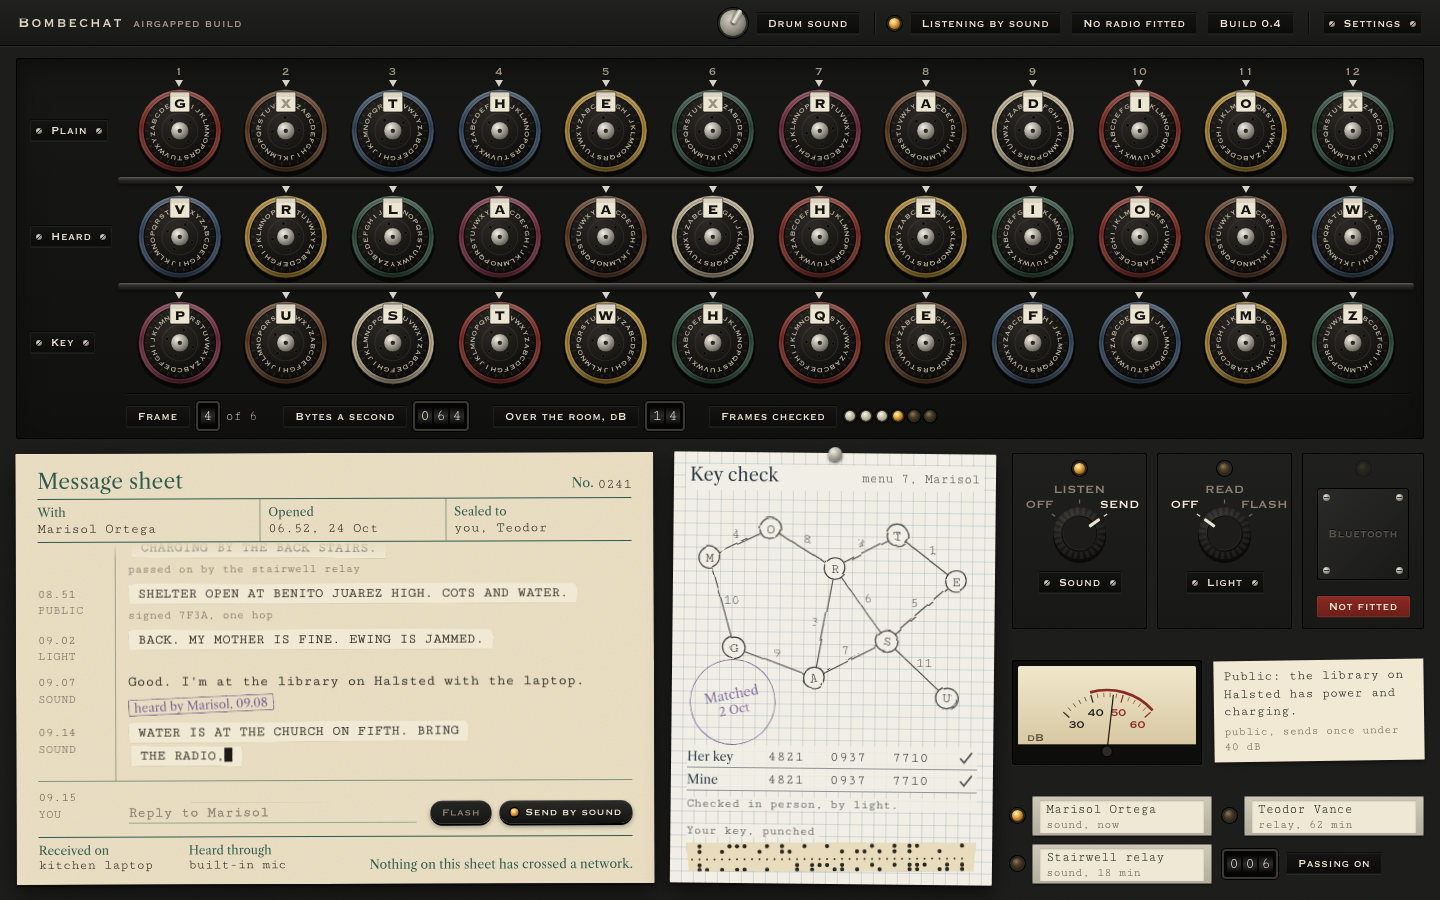
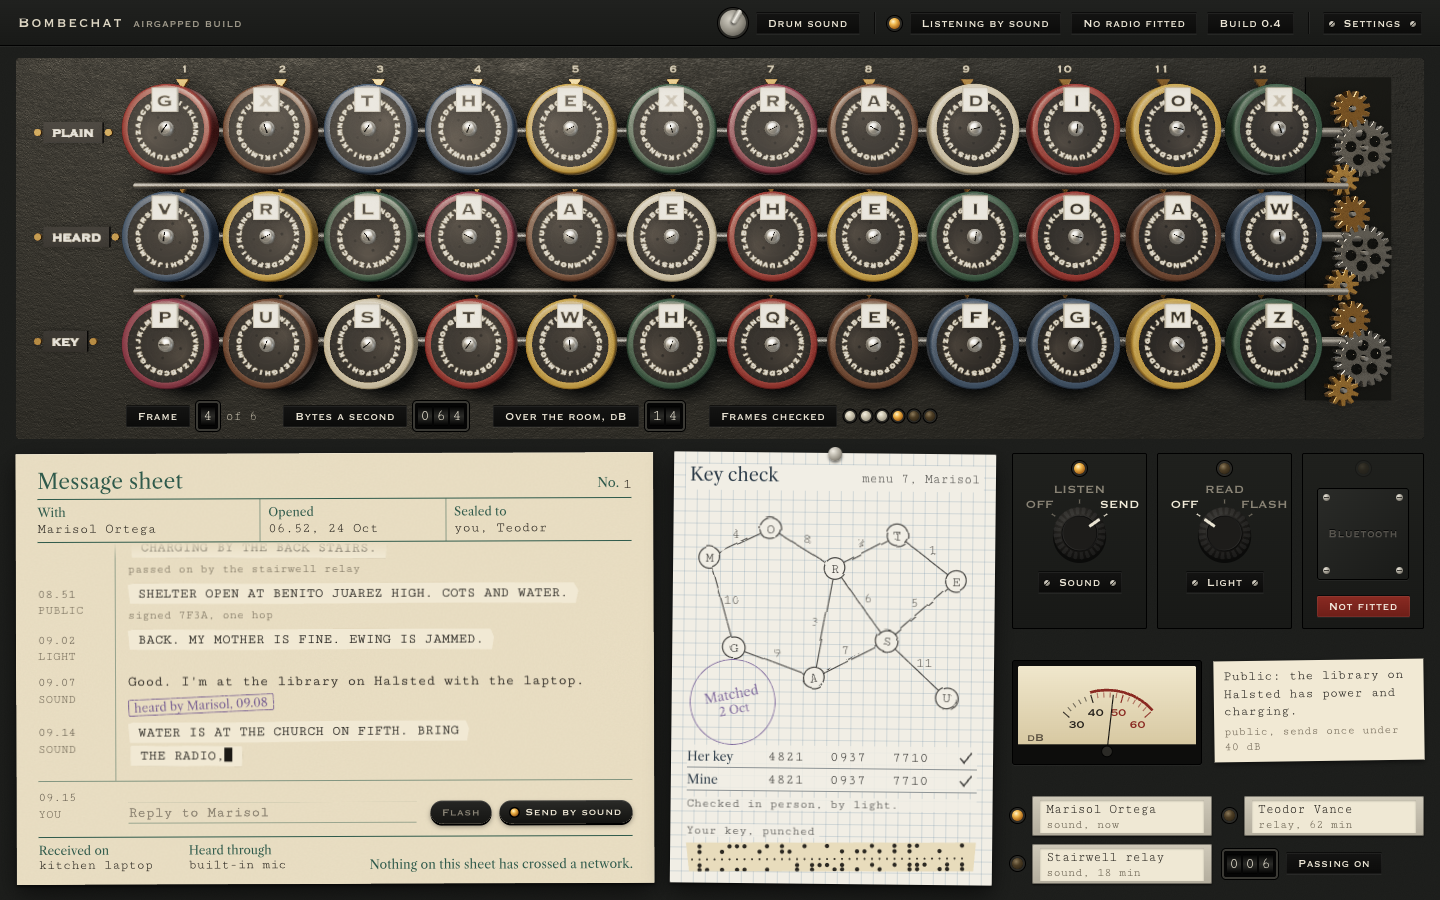
Front: photoreal 3D drum bank with gear trains, Machine No. 1
The drum bank is now a three.js scene built on the shared machine kit:
enamel-rimmed drums on steel shafts, brass index pointers, a 12:20:10
gear train per row that turns with its drums. Same timing, sound and
reduced-motion behaviour as before; SVG drums remain the fallback.

Changed region(s): [[0.0, 0.0622, 1.0, 0.4978], [0.8438, 0.4667, 0.875, 0.4978], [0.4062, 0.5289, 0.4375, 0.56]]

diff --git a/mockups/bombechat.html b/mockups/bombechat.html
@@ -72,8 +72,8 @@ body.turning #back{visibility:visible;transform:rotateY(0);transition:transform 
 .sndlab{cursor:pointer}
 
 /* drum bank */
-.bank{--dr:clamp(66px,min((100vw - 160px) / 12 - 8px,(100vh - 616px) / 3.24),128px);position:relative;z-index:1;margin:12px 16px 0;border-radius:3px;background:linear-gradient(#171816,#111210);box-shadow:inset 0 0 0 1px #000,inset 0 1px 0 rgba(255,255,255,.04),inset 0 10px 30px rgba(0,0,0,.4);padding:8px 18px 0 14px}
-.grid{display:grid;grid-template-columns:96px repeat(12,minmax(0,1fr));align-items:center;min-height:calc(var(--dr) * 3.24 + 37px)}
+.bank{--dr:clamp(66px,min((100vw - 248px) / 12 - 8px,(100vh - 616px) / 3.24),128px);position:relative;z-index:1;margin:12px 16px 0;border-radius:3px;background:linear-gradient(#171816,#111210);box-shadow:inset 0 0 0 1px #000,inset 0 1px 0 rgba(255,255,255,.04),inset 0 10px 30px rgba(0,0,0,.4);padding:8px 18px 0 14px}
+.grid{display:grid;grid-template-columns:96px repeat(12,minmax(0,1fr)) 88px;align-items:center;min-height:calc(var(--dr) * 3.24 + 37px)}
 .colno{font-family:var(--engr);font-size:12px;color:#9a9483;letter-spacing:.06em;text-align:center;padding-bottom:1px}
 .rowlab{align-self:center;padding-top:6px}
 .bar{grid-column:2/-1;height:6px;margin:2px -8px;border-radius:3px;background:linear-gradient(#5f5d57,#2b2a27 45%,#1a1a18);box-shadow:0 1px 0 rgba(255,255,255,.05),0 2px 4px rgba(0,0,0,.6)}
@@ -82,6 +82,12 @@ body.turning #back{visibility:visible;transform:rotateY(0);transition:transform 
 .drum .idx{position:absolute;left:50%;top:0;width:0;height:0;border-left:4.5px solid transparent;border-right:4.5px solid transparent;border-top:7px solid #d8d3c6;transform:translateX(-50%);filter:drop-shadow(0 1px 0 #000)}
 .rotor{transform-box:view-box;transform-origin:0 0;transition:transform .95s cubic-bezier(.2,.85,.25,1.04)}
 .wl{transition:opacity .18s}
+.bank3d{position:absolute;inset:0;border-radius:3px;overflow:hidden;z-index:0}
+.bank3d canvas{display:block;width:100%;height:100%}
+.bank.gl{background:#151614}
+.bank.gl .grid{position:relative;z-index:1;opacity:0}
+.bank.gl .bankfoot{position:relative;z-index:2;border-top-color:transparent;box-shadow:none}
+.srmirror{position:absolute;width:1px;height:1px;overflow:hidden;clip:rect(0 0 0 0);white-space:nowrap}
 .bankfoot{display:flex;flex-wrap:wrap;align-items:center;gap:10px 26px;margin:6px -4px 0 96px;padding:9px 0 10px;border-top:1px solid rgba(0,0,0,.6);box-shadow:inset 0 1px 0 rgba(255,255,255,.035)}
 .rd{display:flex;align-items:center;gap:8px}
 .odo{display:flex;gap:2px;padding:3px;background:#050505;border-radius:2px;box-shadow:0 0 0 2px #3a3934,0 0 0 3px #000}
@@ -234,7 +240,7 @@ body.turning #back{visibility:visible;transform:rotateY(0);transition:transform 
 @media (max-width:1239px){
   .deck{grid-template-columns:minmax(0,1fr) 384px;grid-template-areas:"sheet panel" "sheet menu"}
   .menu{min-height:540px}
-  .bank{--dr:clamp(66px,(100vw - 160px) / 12 - 8px,112px)}
+  .bank{--dr:clamp(66px,(100vw - 248px) / 12 - 8px,112px)}
 }
 @media (prefers-reduced-motion:reduce){
   .rotor,.knob .cap,.slip,.app{transition:none!important}
@@ -242,6 +248,12 @@ body.turning #back{visibility:visible;transform:rotateY(0);transition:transform 
   .cur,.state.live::after{animation:none}
 }
 </style>
+<script type="importmap">
+{ "imports": {
+  "three": "https://cdn.jsdelivr.net/npm/three@0.170.0/build/three.module.js",
+  "three/addons/": "https://cdn.jsdelivr.net/npm/three@0.170.0/examples/jsm/"
+} }
+</script>
 </head>
 <body>
 <div id="back" aria-hidden="true"><span class="pl screw">Rear panel</span></div>
@@ -262,6 +274,7 @@ body.turning #back{visibility:visible;transform:rotateY(0);transition:transform 
 
   <section class="bank" id="bank" aria-label="Drum bank: the current frame of the message, as plain text, as heard, and the key">
     <div class="grid" id="drums"></div>
+    <div class="srmirror" id="mirror"><p aria-live="polite" id="mirror-plain"></p><p id="mirror-heard"></p><p id="mirror-key"></p></div>
     <div class="bankfoot">
       <span class="rd" title="Messages arrive in frames of twelve letters"><span class="pl">Frame</span><span class="odo"><i id="fno">4</i></span><span class="of">of <span id="fnt">6</span></span></span>
       <span class="rd"><span class="pl">Bytes a second</span><span class="odo"><i>0</i><i>6</i><i>4</i></span></span>
@@ -272,7 +285,7 @@ body.turning #back{visibility:visible;transform:rotateY(0);transition:transform 
 
   <main class="deck">
     <article class="sheet" aria-label="Message sheet with Marisol Ortega">
-      <div class="sh-head"><h1>Message sheet</h1><span class="no">No.<b>0241</b></span></div>
+      <div class="sh-head"><h1>Message sheet</h1><span class="no">No.<b>1</b></span></div>
       <div class="fields">
         <div>With<b>Marisol Ortega</b></div>
         <div>Opened<b>06.52, 24 Oct</b></div>
@@ -374,16 +387,17 @@ function drum(rim){
   return s;
 }
 const G=document.getElementById('drums');const cells=[];
-G.insertAdjacentHTML('beforeend','<span></span>'+[...Array(12)].map((_,i)=>`<span class="colno">${i+1}</span>`).join(''));
+G.insertAdjacentHTML('beforeend','<span></span>'+[...Array(12)].map((_,i)=>`<span class="colno">${i+1}</span>`).join('')+'<span></span>');
 ['Plain','Heard','Key'].forEach((lab,r)=>{
   G.insertAdjacentHTML('beforeend',`<div class="rowlab"><span class="pl screw" title="${['What Marisol wrote','What the microphone caught','The key you and Marisol share'][r]}">${lab}</span></div>`);
   for(let c=0;c<12;c++){const d=document.createElement('div');d.className='drum';d.innerHTML='<span class="idx"></span>';const s=drum(RIMS[(c*5+r*3)%12]);d.appendChild(s);G.appendChild(d);
-    cells.push({rot:[...s.querySelectorAll('.rotor')],wl:s.querySelector('.wl'),angle:0,t:null,pitch:0.86+((c*7+r*3)%9)*0.035})}
+    cells.push({rot:[...s.querySelectorAll('.rotor')],wl:s.querySelector('.wl'),el:d,angle:0,from:0,t0:0,snap:true,t:null,pitch:0.86+((c*7+r*3)%9)*0.035})}
+  G.insertAdjacentHTML('beforeend','<span class="gearcell" aria-hidden="true"></span>');
   if(r<2)G.insertAdjacentHTML('beforeend','<div class="bar"></div>');
 });
 
 
-function setLetter(cell,ch,turns){const i=A.indexOf(ch);let base=cell.angle-(cell.angle%360);const a=base-(i*360/26)-360*(turns||0);const prev=cell.angle;cell.angle=a;
+function setLetter(cell,ch,turns){const i=A.indexOf(ch);let base=cell.angle-(cell.angle%360);const a=base-(i*360/26)-360*(turns||0);const prev=cell.angle;cell.angle=a;cell.from=prev;cell.t0=performance.now();cell.snap=!turns||RM.matches;
   clearInterval(cell.t);
   if(turns&&RM.matches){ // reduced motion: no spin, no flicker, just a short fade to the new letter
     cell.rot.forEach(g=>g.style.transform=`rotate(${a}deg)`);cell.wl.style.opacity=0;setTimeout(()=>{cell.wl.textContent=ch;cell.wl.style.opacity=1},180);Drum.spin(1,cell.pitch);return}
@@ -603,6 +617,154 @@ if(Q.has('audiotest'))(async()=>{
 // arriving back from the settings page: finish the turn
 try{if(sessionStorage.getItem('bombechat-turn')==='back-to-front'&&!matchMedia('(prefers-reduced-motion: reduce)').matches){sessionStorage.removeItem('bombechat-turn');
   document.body.animate([{transform:'perspective(1600px) rotateY(-80deg)',opacity:0},{transform:'perspective(1600px) rotateY(0deg)',opacity:1}],{duration:520,easing:'cubic-bezier(.2,.8,.3,1)'})}}catch(e){}
+</script>
+<script type="module">
+/* The drum bank in 3D. Same machine as the back panel: built from machine-kit.js.
+   The SVG drums above stay as the model and the fallback: setLetter() records each
+   turn (from, to, start time) and the window letters, and this scene draws them. */
+import { createMachine } from './machine-kit.js';
+const bank=document.getElementById('bank');
+const mirror={plain:document.getElementById('mirror-plain'),heard:document.getElementById('mirror-heard'),key:document.getElementById('mirror-key')};
+const rowText=r=>cells.slice(r*12,r*12+12).map(c=>c.wl.textContent).join('');
+window.__bank={rows:()=>({plain:rowText(0),heard:rowText(1),key:rowText(2)}),ready:false,gl:false};
+function syncMirror(){const r=window.__bank.rows();if(mirror.plain.textContent!==r.plain)mirror.plain.textContent=r.plain.replace(/X/g,' ');mirror.heard.textContent=r.heard;mirror.key.textContent=r.key}
+syncMirror();
+try{await build()}catch(e){console.warn('drum bank stays flat:',e.message);window.__bank.ready=true}
+
+async function build(){
+  const host=document.createElement('div');host.className='bank3d';host.setAttribute('aria-hidden','true');bank.prepend(host);
+  const K=createMachine(host,{still:STILL,background:'#151614'});
+  const {THREE,renderer,scene,camera,M,tex,key,rim}=K;
+  bank.classList.add('gl');window.__bank.gl=true;
+  camera.fov=19;
+  key.position.set(-6,9,22);key.intensity=2.7;
+  Object.assign(key.shadow.camera,{left:-14,right:14,top:7,bottom:-7,near:1,far:60});key.shadow.camera.updateProjectionMatrix();
+  rim.intensity=.45;
+
+  /* ---- shared parts ---- */
+  const R=.46;// drum radius in world units; one unit = drum width / 0.92
+  const ringTex=K.canvasTex(1024,1024,(k,w)=>{const c=w/2;
+    const g=k.createRadialGradient(c*.8,c*.6,c*.1,c,c,c);g.addColorStop(0,'#2e2a26');g.addColorStop(.65,'#161412');g.addColorStop(1,'#0a0908');k.fillStyle=g;k.fillRect(0,0,w,w);
+    k.translate(c,c);k.fillStyle='#d8d0ba';k.font='600 104px Copperplate, serif';k.textAlign='center';k.textBaseline='middle';
+    for(let i=0;i<26;i++){k.save();k.rotate(i*2*Math.PI/26);k.fillText('ABCDEFGHIJKLMNOPQRSTUVWXYZ'[i],0,-c*.74);k.restore()}
+    k.strokeStyle='rgba(220,214,200,.28)';k.lineWidth=3;for(let i=0;i<26;i++){k.save();k.rotate((i+.5)*2*Math.PI/26);k.beginPath();k.moveTo(0,-c*.97);k.lineTo(0,-c*.88);k.stroke();k.restore()}
+    k.strokeStyle='rgba(220,214,200,.1)';k.lineWidth=2;k.beginPath();k.arc(0,0,c*.5,0,7);k.stroke();
+    for(let i=0;i<4;i++){k.save();k.rotate(Math.PI/4+i*Math.PI/2);k.fillStyle='#070605';k.beginPath();k.arc(0,-c*.37,c*.045,0,7);k.fill();k.strokeStyle='rgba(220,214,200,.2)';k.stroke();k.restore()}});
+  ringTex.wrapS=ringTex.wrapT=THREE.ClampToEdgeWrapping;ringTex.colorSpace=THREE.SRGBColorSpace;ringTex.anisotropy=16;
+  const faceMat=new THREE.MeshStandardMaterial({map:ringTex,roughness:.55,metalness:.05});
+  // rim: a turned profile with a bevel on both edges
+  const rimGeo=(()=>{const p=[[.395,0],[.445,0],[.462,.012],[.47,.04],[.47,.17],[.462,.2],[.445,.212],[.395,.212]].map(([r,y])=>new THREE.Vector2(r,y));const g=new THREE.LatheGeometry(p,96);g.rotateX(Math.PI/2);return g})();
+  const faceGeo=new THREE.CircleGeometry(.402,96);
+  const hubGeo=(()=>{const p=[[0,.0],[.075,0],[.08,.01],[.074,.034],[.05,.052],[0,.058]].map(([r,y])=>new THREE.Vector2(r,y));const g=new THREE.LatheGeometry(p,48);g.rotateX(Math.PI/2);return g})();
+  const slotGeo=new THREE.BoxGeometry(.1,.012,.02);
+  const shaftGeo=new THREE.CylinderGeometry(.03,.03,.2,16);shaftGeo.rotateX(Math.PI/2);
+  const rimMats={};const rimMat=c=>rimMats[c]||(rimMats[c]=new THREE.MeshPhysicalMaterial({color:new THREE.Color(c).multiplyScalar(.82),roughness:.46,metalness:.05,clearcoat:.45,clearcoatRoughness:.4,bumpMap:tex.wrinkle,bumpScale:.15}));
+  const tabMatBase={roughness:.45,metalness:0};
+  const pointerGeo=(()=>{const s=new THREE.Shape();s.moveTo(-.045,0);s.lineTo(.045,0);s.lineTo(0,-.07);s.closePath();return new THREE.ExtrudeGeometry(s,{depth:.02,bevelEnabled:true,bevelThickness:.006,bevelSize:.006,bevelSegments:2})})();
+  const railMat=new THREE.MeshStandardMaterial({color:'#8e8b84',roughness:.3,metalness:1});
+
+  /* ---- panel ---- */
+  const panel=new THREE.Mesh(new THREE.BoxGeometry(1,1,.3),M.panel);panel.position.z=-.36;panel.receiveShadow=true;scene.add(panel);
+
+  /* ---- drums ---- */
+  const drums=cells.map((cell,i)=>{const r=Math.floor(i/12),c=i%12;
+    const g=new THREE.Group();scene.add(g);
+    const rimM=new THREE.Mesh(rimGeo,rimMat(RIMS[(c*5+r*3)%12]));rimM.castShadow=true;rimM.receiveShadow=true;
+    const rot=new THREE.Group();
+    const face=new THREE.Mesh(faceGeo,faceMat);face.position.z=.19;face.receiveShadow=true;
+    const hub=new THREE.Mesh(hubGeo,M.steel);hub.position.z=.192;hub.castShadow=true;
+    const slot=new THREE.Mesh(slotGeo,M.hole);slot.position.z=.247;slot.rotation.z=-.5;
+    rot.add(rimM,face,hub,slot);g.add(rot);
+    const shaft=new THREE.Mesh(shaftGeo,M.steel);shaft.position.z=-.08;g.add(shaft);
+    // reading window: cream enamel tab, fixed, with the letter
+    const cv=document.createElement('canvas');cv.width=cv.height=128;const wt=new THREE.CanvasTexture(cv);wt.colorSpace=THREE.SRGBColorSpace;wt.anisotropy=8;
+    const tab=new THREE.Mesh(new THREE.BoxGeometry(.26,.25,.03),[new THREE.MeshStandardMaterial({color:'#e9e1cb',...tabMatBase}),new THREE.MeshStandardMaterial({color:'#e9e1cb',...tabMatBase}),new THREE.MeshStandardMaterial({color:'#e9e1cb',...tabMatBase}),new THREE.MeshStandardMaterial({color:'#e9e1cb',...tabMatBase}),new THREE.MeshStandardMaterial({map:wt,...tabMatBase}),new THREE.MeshStandardMaterial({color:'#e9e1cb'})]);
+    tab.position.set(0,R*.645,.225);tab.castShadow=true;g.add(tab);
+    const ptr=new THREE.Mesh(pointerGeo,M.brass);ptr.position.set(0,R+.1,-.18);ptr.scale.setScalar(1.35);ptr.castShadow=true;g.add(ptr);
+    return {cell,g,rot,cv,wt,last:'',r,c}});
+  function paintWindow(d){const wl=d.cell.wl;const ch=wl.textContent,fill=wl.getAttribute('fill')||'#15130f',op=+(wl.getAttribute('opacity')||1)*(+wl.style.opacity===0&&wl.style.opacity!==''?0:1);
+    const sig=ch+fill+op;if(sig===d.last)return false;d.last=sig;
+    const k=d.cv.getContext('2d');k.fillStyle='#ece4cd';k.fillRect(0,0,128,128);const sh=k.createLinearGradient(0,0,0,128);sh.addColorStop(0,'rgba(0,0,0,.09)');sh.addColorStop(.25,'rgba(0,0,0,0)');k.fillStyle=sh;k.fillRect(0,0,128,128);
+    k.globalAlpha=op;k.fillStyle=fill;k.font='700 112px Copperplate, serif';k.textAlign='center';k.textBaseline='middle';k.fillText(ch,64,73);k.globalAlpha=1;
+    k.strokeStyle='rgba(0,0,0,.35)';k.lineWidth=4;k.strokeRect(2,2,124,124);d.wt.needsUpdate=true;return true}
+
+  /* ---- rails, plates, numbers, gears ---- */
+  const rails=[];for(let i=0;i<5;i++){const m=new THREE.Mesh(new THREE.CylinderGeometry(i<3?.05:.035,i<3?.05:.035,1,24),railMat);m.rotation.z=Math.PI/2;m.castShadow=true;m.receiveShadow=true;scene.add(m);rails.push(m)}
+  const plates=['Plain','Heard','Key'].map(t=>K.plate(t.toUpperCase(),0,0,{h:.2,size:56}));
+  const screwGeo=new THREE.CylinderGeometry(.035,.035,.025,20);screwGeo.rotateX(Math.PI/2);const plateScrews=plates.map(()=>[0,1].map(()=>{const m=new THREE.Mesh(screwGeo,M.brassDull);m.castShadow=true;scene.add(m);return m}));
+  const nums=[...Array(12)].map((_,i)=>K.engrave(String(i+1),0,0,.13,'#b8b09a'));
+  function gearGeo(N,m,th){const rp=m*N/2,ra=rp+m,rf=rp-1.25*m,s=new THREE.Shape();
+    for(let i=0;i<N;i++){const a=i*2*Math.PI/N,t=Math.PI/N;const pts=[[rf,a-t*.62],[rp*.98,a-t*.42],[ra,a-t*.26],[ra,a+t*.26],[rp*.98,a+t*.42],[rf,a+t*.62],[rf,a+t*1.38]];
+      pts.forEach(([r,an],j)=>{const x=Math.sin(an)*r,y=Math.cos(an)*r;i===0&&j===0?s.moveTo(x,y):s.lineTo(x,y)})}
+    s.closePath();const hole=new THREE.Path();hole.absarc(0,0,m*1.4,0,Math.PI*2,true);s.holes.push(hole);
+    if(N>14)for(let i=0;i<5;i++){const h=new THREE.Path();const a=i*2*Math.PI/5,cr=(rf+m*1.4)/2;h.absarc(Math.sin(a)*cr,Math.cos(a)*cr,(rf-m*1.4)*.3,0,Math.PI*2,true);s.holes.push(h)}
+    const g=new THREE.ExtrudeGeometry(s,{depth:th,bevelEnabled:true,bevelThickness:.008,bevelSize:.006,bevelSegments:2,curveSegments:6});g.translate(0,0,-th/2);return {g,rp}}
+  const MOD=.027;
+  const G1=gearGeo(12,MOD,.07),G2=gearGeo(20,MOD,.06),G3=gearGeo(10,MOD,.07);
+  const bracketMat=new THREE.MeshStandardMaterial({color:'#2e2f2b',roughness:.42,metalness:.85,bumpMap:tex.wrinkle,bumpScale:.2});const gearSteel=new THREE.MeshStandardMaterial({color:'#8d8a82',roughness:.38,metalness:1});
+  const gPlate=[0,1,2].map(()=>{const m=new THREE.Mesh(new THREE.BoxGeometry(.7,1,.04),bracketMat);m.receiveShadow=true;m.castShadow=true;scene.add(m);return m});
+  const trains=[0,1,2].map(r=>{const a=new THREE.Mesh(G1.g,M.brass),b=new THREE.Mesh(G2.g,gearSteel),c=new THREE.Mesh(G3.g,M.brassDull);
+    [a,b,c].forEach(m=>{m.castShadow=true;m.receiveShadow=true;scene.add(m)});
+    const pins=[0,1,2].map(()=>{const p=new THREE.Mesh(new THREE.CylinderGeometry(.022,.022,.12,16),M.steel);p.rotation.x=Math.PI/2;scene.add(p);return p});
+    return {a,b,c,pins,angle:0,lastSum:null}});
+
+  /* ---- place everything from the HTML layout ---- */
+  let U=1,BW=1,BH=1;
+  const toWorld=(px,py)=>new THREE.Vector3((px-BW/2)/U,-(py-BH/2)/U,0);
+  function layout(){const br=bank.getBoundingClientRect();BW=br.width;BH=br.height;if(!BW||!BH)return;
+    const dr=cells[0].el.getBoundingClientRect().width;U=dr/.92;
+    renderer.setSize(BW,BH,false);camera.aspect=BW/BH;
+    const D=(BH/U/2)/Math.tan(camera.fov*Math.PI/360);baseD=D;camera.updateProjectionMatrix();composer.setSize(BW,BH);
+    panel.scale.set(BW/U+.4,BH/U+.4,1);
+    drums.forEach(d=>{const r=d.cell.el.getBoundingClientRect();const p=toWorld(r.left-br.left+r.width/2,r.top-br.top+r.width*.08+r.width/2);d.g.position.copy(p)});
+    const rowY=[0,1,2].map(r=>drums[r*12].g.position.y);const x0=drums[0].g.position.x,x1=drums[11].g.position.x;
+    // shafts run behind each row, rails between rows
+    [0,1,2].forEach(r=>{const m=rails[r];m.position.set((x0+x1)/2+.25,rowY[r],-.16);m.scale.set(1,(x1-x0)+1.6,1)});
+    [0,1].forEach(i=>{const m=rails[3+i];const y=(rowY[i]+rowY[i+1])/2;m.position.set((x0+x1)/2+.2,y-.02,-.05);m.scale.set(1,(x1-x0)+1.3,1)});
+    const lab=[...document.querySelectorAll('.rowlab')];
+    const ps=(21/U)/.2;plates.forEach((p,r)=>{p.scale.set(ps,ps,1);const lr=lab[r].getBoundingClientRect();const w=p.geometry.parameters.width*ps;const pos=toWorld(lr.left-br.left+4,0);p.position.set(pos.x+w/2,rowY[r],-.18);
+      plateScrews[r][0].position.set(p.position.x-w/2-6/U,rowY[r],-.18);plateScrews[r][1].position.set(p.position.x+w/2+6/U,rowY[r],-.18);plateScrews[r].forEach(m=>m.scale.setScalar(Math.max(1,(7/U)/.07)))});
+    const cn=[...document.querySelectorAll('.colno')];nums.forEach((n,i)=>{const r=cn[i].getBoundingClientRect();const p=toWorld(r.left-br.left+r.width/2,r.top-br.top+r.height/2);n.position.set(p.x,p.y+.07,-.205);n.scale.setScalar(Math.max(1,(13/U)/.13))});
+    const gc=[...document.querySelectorAll('.gearcell')];
+    trains.forEach((t,r)=>{const cr=gc[r].getBoundingClientRect();const cx=toWorld(cr.left-br.left+cr.width/2,0).x+.02,y=rowY[r];gPlate[r].position.set(cx,y,-.205);
+      const pa=new THREE.Vector3(cx-.08,y+.24,-.12);const dirB=new THREE.Vector2(.3,-.95).normalize(),dAB=G1.rp+G2.rp;
+      const pb=new THREE.Vector3(pa.x+dirB.x*dAB,pa.y+dirB.y*dAB,-.13);const dirC=new THREE.Vector2(-.55,-.83).normalize(),dBC=G2.rp+G3.rp;
+      const pc=new THREE.Vector3(pb.x+dirC.x*dBC,pb.y+dirC.y*dBC,-.12);t.a.position.copy(pa);t.b.position.copy(pb);t.c.position.copy(pc);
+      t.thAB=Math.atan2(dirB.y,dirB.x);const mx=(pa.x+pb.x+pc.x)/3,my=(pa.y+pb.y+pc.y)/3;gPlate[r].position.set(mx+.01,y-.02,-.205);gPlate[r].scale.set(1.3,1.22,1);t.thBC=Math.atan2(dirC.y,dirC.x);[pa,pb,pc].forEach((p,i)=>t.pins[i].position.set(p.x,p.y,-.1))});
+    setGears();renderer.shadowMap.needsUpdate=true;dirty=true}
+  let baseD=10,dirty=true;
+  // meshing: b turns opposite a at N1/N2; phase so a tooth of one sits in a gap of the other
+  function setGears(){trains.forEach(t=>{const a=t.angle;t.a.rotation.z=a;
+    const b=-(a-t.thAB)*12/20+t.thAB+Math.PI+Math.PI/20;t.b.rotation.z=b;
+    const c=-(b-t.thBC)*20/10+t.thBC+Math.PI+Math.PI/10;t.c.rotation.z=c})}
+
+  /* ---- lens ---- */
+  const composer=K.makeComposer({ao:!Q.has('noao')});
+  new ResizeObserver(layout).observe(bank);addEventListener('resize',layout);
+  document.fonts&&document.fonts.ready.then(()=>{drums.forEach(d=>d.last='');layout()});
+  let par={x:0,y:0},parT={x:0,y:0};
+  bank.addEventListener('pointermove',e=>{if(RM.matches||STILL)return;const r=bank.getBoundingClientRect();parT.x=(e.clientX-r.left)/r.width-.5;parT.y=(e.clientY-r.top)/r.height-.5});
+  bank.addEventListener('pointerleave',()=>{parT.x=parT.y=0});
+
+  // the same curve as the CSS turn: cubic-bezier(.2,.85,.25,1.04) over .95 s
+  function bez(x){const cx=3*.2,bx=3*(.25-.2)-cx,ax=1-cx-bx,cy=3*.85,by=3*(1.04-.85)-cy,ay=1-cy-by;let t=x;
+    for(let i=0;i<6;i++){const fx=((ax*t+bx)*t+cx)*t-x,d=(3*ax*t+2*bx)*t+cx;if(Math.abs(fx)<1e-5)break;t-=fx/d}return((ay*t+by)*t+cy)*t}
+  const DUR=950;let last=performance.now(),frames=0;
+  function frame(now){const dt=Math.min(.05,(now-last)/1000);last=now;let moving=false;
+    for(const d of drums){const c=d.cell;let ang=c.angle;
+      if(!c.snap){const k=(now-c.t0)/DUR;if(k<1){ang=c.from+(c.angle-c.from)*bez(Math.max(0,k));moving=true}}
+      const z=-ang*Math.PI/180;if(d.rot.rotation.z!==z){d.rot.rotation.z=z;dirty=true}
+      if(paintWindow(d))dirty=true}
+    // gears follow the row: the drive gear turns by the row's mean drum angle
+    trains.forEach((t,r)=>{let s=0;for(let i=0;i<12;i++)s+=drums[r*12+i].rot.rotation.z;const a=s/12*.6;if(a!==t.angle){t.angle=a;moving=true}});
+    if(moving){setGears();renderer.shadowMap.needsUpdate=true;dirty=true}
+    const k=1-Math.exp(-dt*4);par.x+=(parT.x-par.x)*k;par.y+=(parT.y-par.y)*k;
+    const want=new THREE.Vector3(par.x*.6,-par.y*.35,baseD);if(camera.position.distanceTo(want)>1e-4){camera.position.copy(want);camera.lookAt(par.x*.15,-par.y*.08,0);dirty=true}
+    if(dirty){composer.render();dirty=false}
+    if(++frames===3){window.__bank.ready=true}
+    syncMirror();requestAnimationFrame(frame)}
+  layout();requestAnimationFrame(frame);
+}
 </script>
 </body>
 </html>
